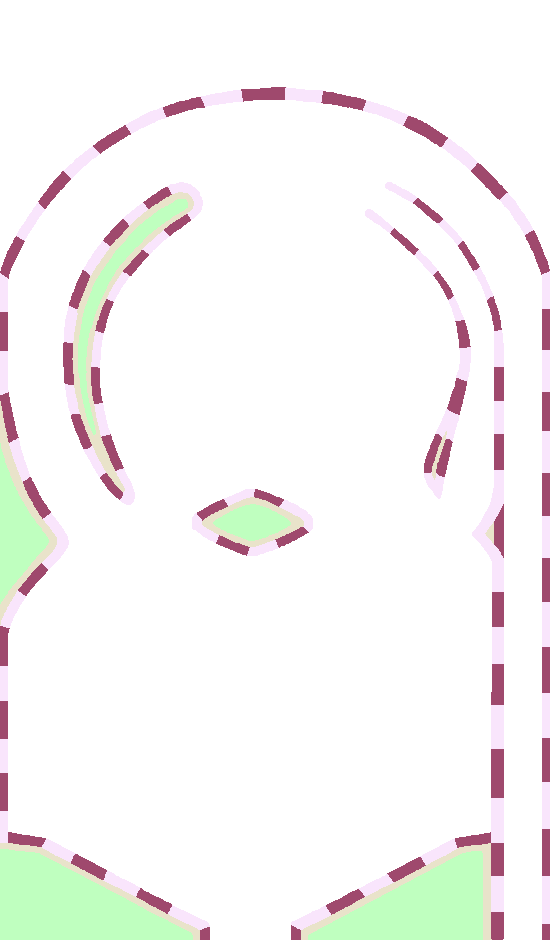
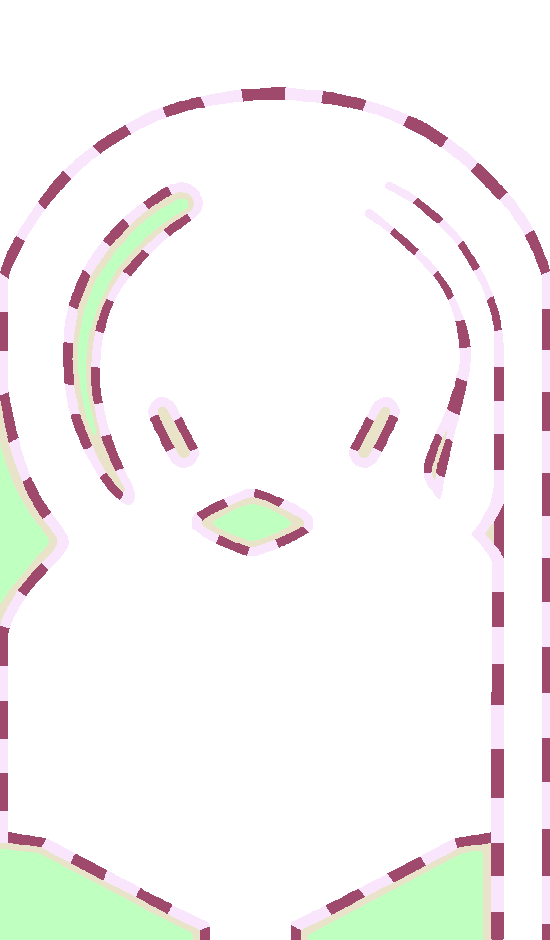
slugs

Changed region(s): [[0.6182, 0.4011, 0.7418, 0.4936], [0.2473, 0.4011, 0.3709, 0.4936]]

diff --git a/Source/ModuleGame.cpp b/Source/ModuleGame.cpp
@@ -757,6 +757,8 @@ bool ModuleGame::Start()
 	sNailTexture = LoadTexture("Assets/sNail.png");
 	rightFlipperTexture = LoadTexture("Assets/rightFlipper.png");
 	leftFlipperTexture = LoadTexture("Assets/leftFlipper.png");
+	rightSlugTexture = LoadTexture("Assets/rightSlug.png");
+	leftSlugTexture = LoadTexture("Assets/leftSlug.png");
 
 	bumperHit = LoadSound("Assets/Sounds/bumper_hit.wav");
 	flipper = LoadSound("Assets/Sounds/flipper_no_hit.wav");
@@ -1081,5 +1083,7 @@ update_status ModuleGame::Update()
 	DrawTexture(rightTriangleBumper, 337, 604, WHITE);
 	DrawTexture(sNailTexture, 244, 163, WHITE);
 	DrawTexture(sNailTexture, 302, 163, WHITE);
+	DrawTexture(rightSlugTexture, 347, 580, WHITE);
+	DrawTexture(leftSlugTexture, 32, 635, WHITE);
 	return UPDATE_CONTINUE;
 }

diff --git a/Source/ModuleGame.h b/Source/ModuleGame.h
@@ -55,6 +55,8 @@ public:
 	Texture2D sNailTexture;
 	Texture2D rightFlipperTexture;
 	Texture2D leftFlipperTexture;
+	Texture2D rightSlugTexture;
+	Texture2D leftSlugTexture;
 	bool changeGravity;
 	bool bounceMode;
 	void CreateBall();
